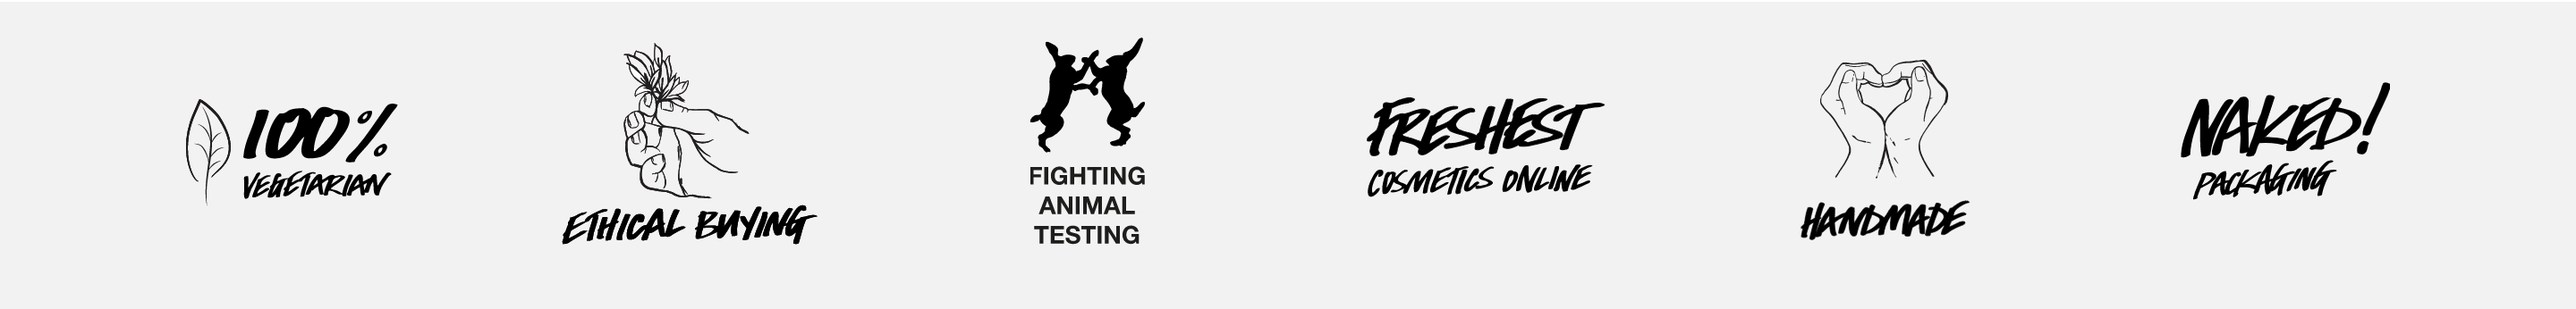
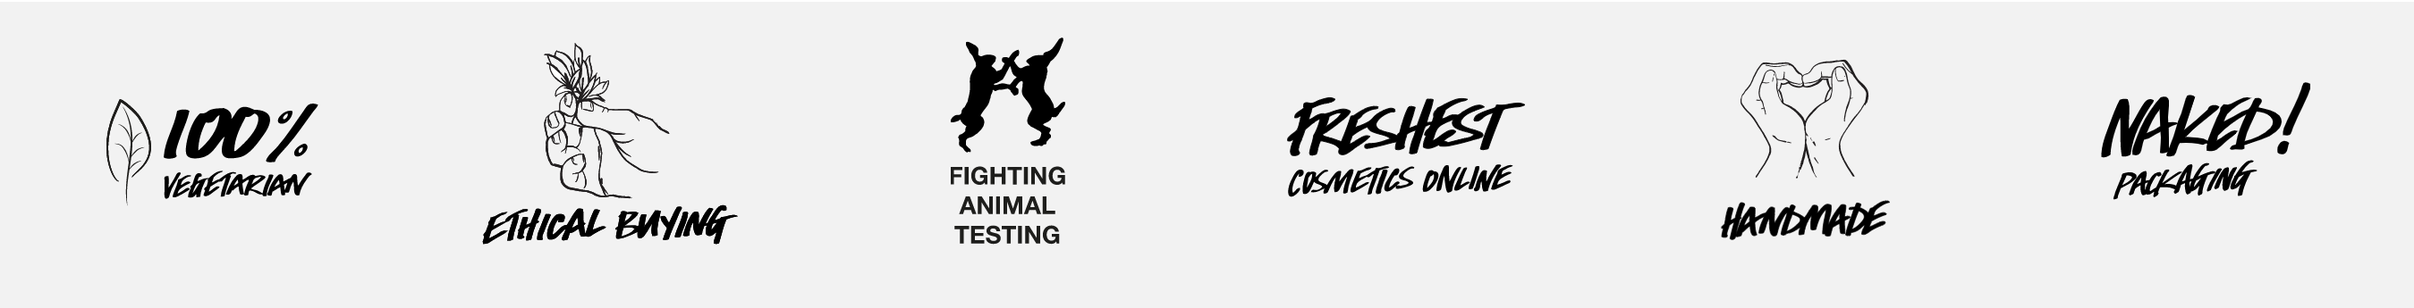
ok

diff --git a/style.css b/style.css
@@ -208,6 +208,10 @@ div#slider figure {
   position: absolute;
   display: flex;
   align-items: center;
+  z-index: 1;
+  position: absolute;
+  top: 800px;
+  left: 0px;
 }
 .clickboard img:hover{
 opacity:0.8;
@@ -236,7 +240,6 @@ opacity:0.8;
   background-size: 200px 200px;
   background-position: center;
 }
-
 
 .boxes1 p:hover, p:active {
   background-color: black;
@@ -280,6 +283,16 @@ opacity:0.8;
 .boxes3 a {
   padding:120px;
   text-align: center;
+}
+/*clickboard end*/
+
+.notes {
+  position: absolute;
+  top: 1100px;
+}
+.fight {
+    width: 100%;
+    height:200px;
 }
 
 /* bathbomb */

diff --git a/index.html b/index.html
@@ -74,8 +74,7 @@
   </div>
 
   <div class="boxes3"> <!-- item container -->
-     <!-- item -->
-    <a href="facemask.html">
+    <a href="facemask.html"> <!-- item -->
       <p> FACEMASK </p>
     </a>
   </div>
@@ -91,7 +90,7 @@
 </div>
 
 <div class="notes">
-  <img src="enjour/life.png">
+  <img class="fight" src="enjour/life.png">
 </div>
 
 
